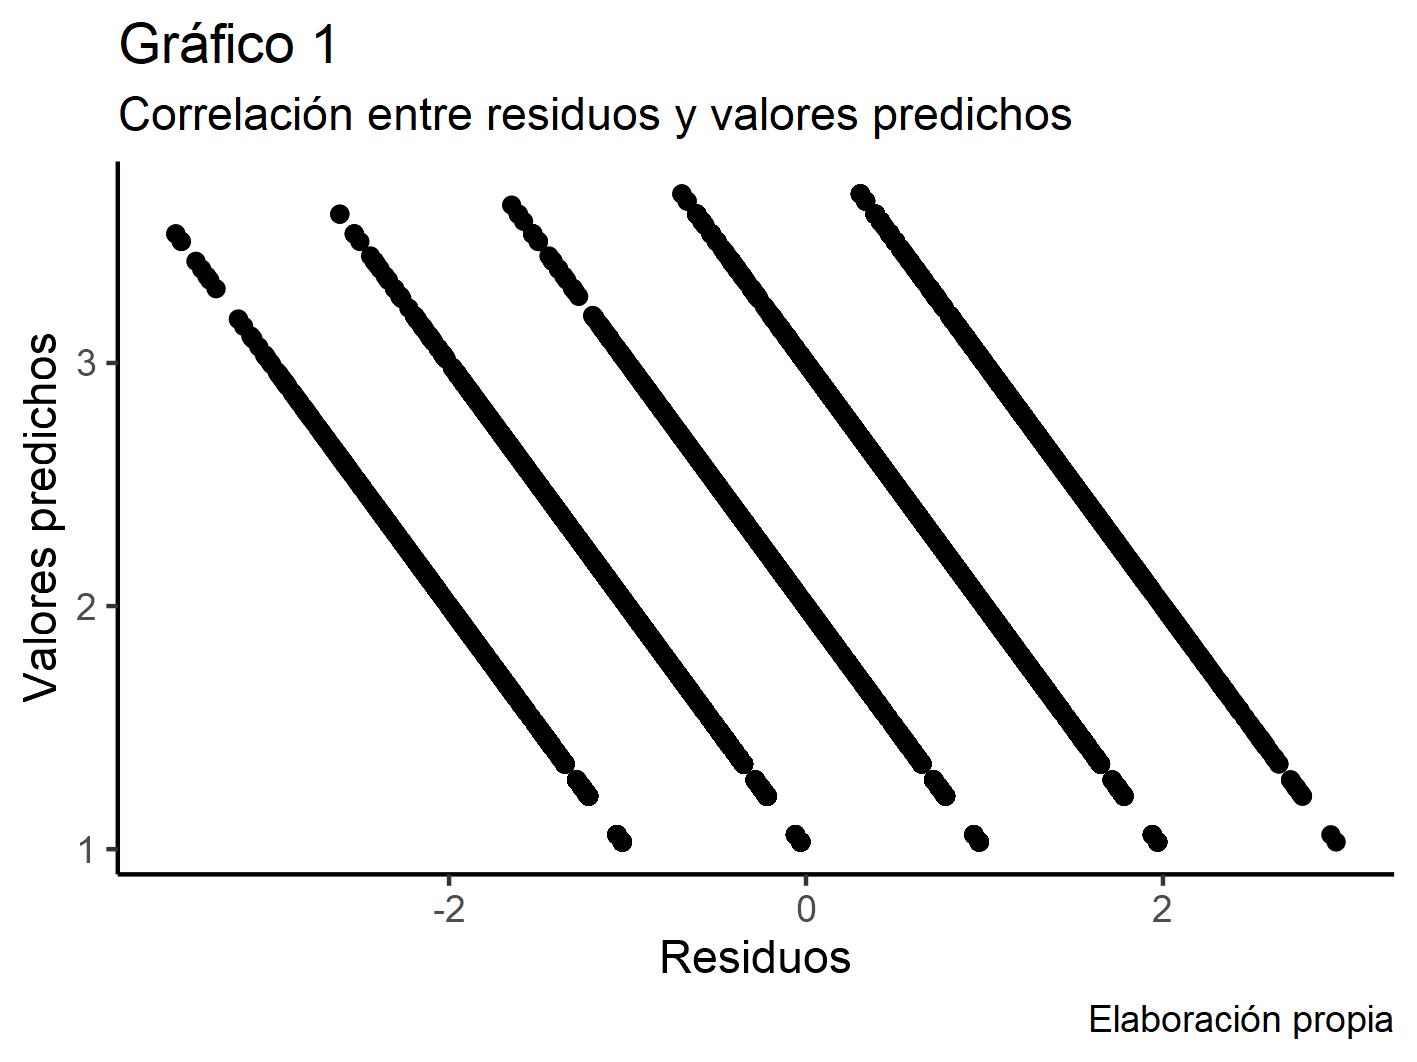
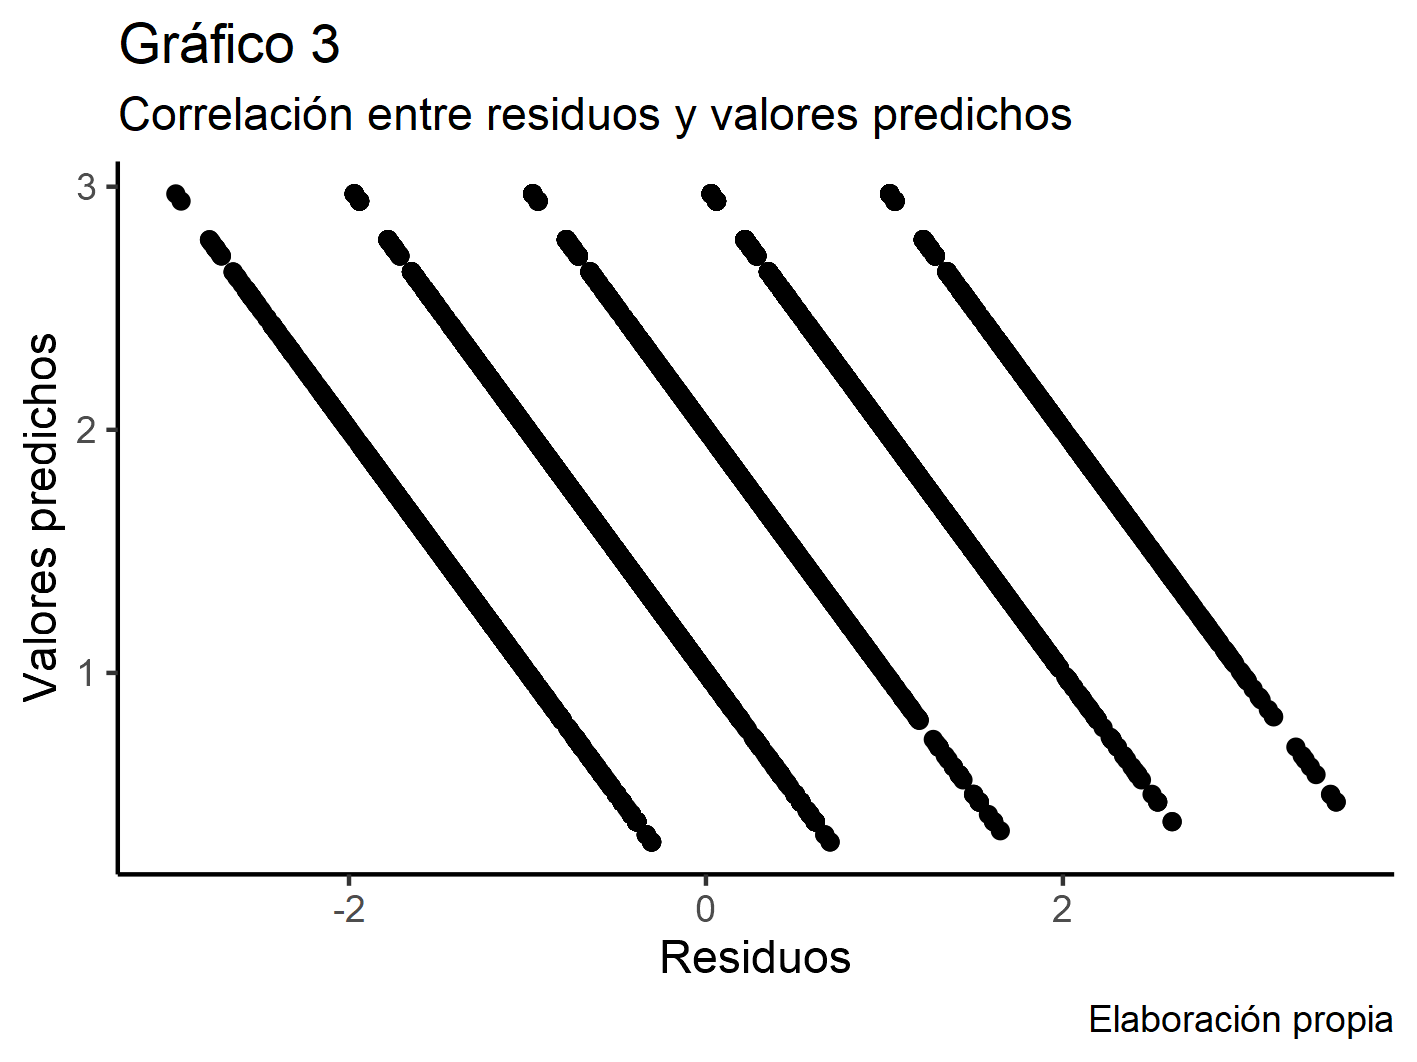
actualizacion graficos

diff --git a/output/fig/interceptos_mod12.html b/output/fig/interceptos_mod12.html
@@ -288,7 +288,7 @@ border: 0;
 </head>
 <body>
 <table class=" lightable-classic" style="font-family: Times New Roman; width: auto !important; margin-left: auto; margin-right: auto;border-bottom: 0;">
-<caption>Interceptos aleatorios estimados en el 
+<caption>Interceptos aleatorios y valores predichos estimados en el 
 Modelo 12</caption>
  <thead>
   <tr>
@@ -300,154 +300,154 @@ Modelo 12</caption>
  </thead>
 <tbody>
   <tr>
-   <td style="text-align:left;"> Finlandia </td>
-   <td style="text-align:right;"> 2.601 </td>
-   <td style="text-align:right;"> 0.998 </td>
-   <td style="text-align:right;"> 3.130 </td>
-  </tr>
-  <tr>
-   <td style="text-align:left;"> Islandia </td>
-   <td style="text-align:right;"> 2.188 </td>
-   <td style="text-align:right;"> 1.406 </td>
-   <td style="text-align:right;"> 2.933 </td>
-  </tr>
-  <tr>
-   <td style="text-align:left;"> Noruega </td>
-   <td style="text-align:right;"> 2.070 </td>
-   <td style="text-align:right;"> 1.396 </td>
-   <td style="text-align:right;"> 2.810 </td>
-  </tr>
-  <tr>
    <td style="text-align:left;"> Rusia, (la) Federación de </td>
    <td style="text-align:right;"> 2.883 </td>
    <td style="text-align:right;"> -0.166 </td>
-   <td style="text-align:right;"> 2.795 </td>
-  </tr>
-  <tr>
-   <td style="text-align:left;"> Suecia </td>
-   <td style="text-align:right;"> 2.214 </td>
-   <td style="text-align:right;"> 0.861 </td>
-   <td style="text-align:right;"> 2.670 </td>
-  </tr>
-  <tr>
-   <td style="text-align:left;"> Dinamarca </td>
-   <td style="text-align:right;"> 2.192 </td>
-   <td style="text-align:right;"> 0.808 </td>
-   <td style="text-align:right;"> 2.620 </td>
-  </tr>
-  <tr>
-   <td style="text-align:left;"> Eslovenia </td>
-   <td style="text-align:right;"> 2.344 </td>
-   <td style="text-align:right;"> 0.162 </td>
-   <td style="text-align:right;"> 2.430 </td>
-  </tr>
-  <tr>
-   <td style="text-align:left;"> Bélgica </td>
-   <td style="text-align:right;"> 2.141 </td>
-   <td style="text-align:right;"> 0.429 </td>
-   <td style="text-align:right;"> 2.368 </td>
-  </tr>
-  <tr>
-   <td style="text-align:left;"> Lituania </td>
-   <td style="text-align:right;"> 2.504 </td>
-   <td style="text-align:right;"> -0.276 </td>
-   <td style="text-align:right;"> 2.358 </td>
-  </tr>
-  <tr>
-   <td style="text-align:left;"> Sudáfrica </td>
-   <td style="text-align:right;"> 2.537 </td>
-   <td style="text-align:right;"> -0.445 </td>
-   <td style="text-align:right;"> 2.301 </td>
-  </tr>
-  <tr>
-   <td style="text-align:left;"> Austria </td>
-   <td style="text-align:right;"> 2.212 </td>
-   <td style="text-align:right;"> 0.118 </td>
-   <td style="text-align:right;"> 2.275 </td>
-  </tr>
-  <tr>
-   <td style="text-align:left;"> Alemania </td>
-   <td style="text-align:right;"> 2.189 </td>
-   <td style="text-align:right;"> 0.153 </td>
-   <td style="text-align:right;"> 2.270 </td>
-  </tr>
-  <tr>
-   <td style="text-align:left;"> Eslovaquia </td>
-   <td style="text-align:right;"> 2.348 </td>
-   <td style="text-align:right;"> -0.212 </td>
-   <td style="text-align:right;"> 2.236 </td>
-  </tr>
-  <tr>
-   <td style="text-align:left;"> Suiza </td>
-   <td style="text-align:right;"> 2.022 </td>
-   <td style="text-align:right;"> 0.312 </td>
-   <td style="text-align:right;"> 2.187 </td>
-  </tr>
-  <tr>
-   <td style="text-align:left;"> Letonia </td>
-   <td style="text-align:right;"> 2.341 </td>
-   <td style="text-align:right;"> -0.326 </td>
-   <td style="text-align:right;"> 2.168 </td>
-  </tr>
-  <tr>
-   <td style="text-align:left;"> Chequia </td>
-   <td style="text-align:right;"> 2.367 </td>
-   <td style="text-align:right;"> -0.398 </td>
-   <td style="text-align:right;"> 2.156 </td>
+   <td style="text-align:right;"> 2.971 </td>
   </tr>
   <tr>
    <td style="text-align:left;"> Hungría </td>
    <td style="text-align:right;"> 2.448 </td>
    <td style="text-align:right;"> -0.636 </td>
-   <td style="text-align:right;"> 2.111 </td>
+   <td style="text-align:right;"> 2.785 </td>
   </tr>
   <tr>
-   <td style="text-align:left;"> Polonia </td>
-   <td style="text-align:right;"> 2.331 </td>
-   <td style="text-align:right;"> -0.457 </td>
-   <td style="text-align:right;"> 2.089 </td>
-  </tr>
-  <tr>
-   <td style="text-align:left;"> Estonia </td>
-   <td style="text-align:right;"> 2.296 </td>
-   <td style="text-align:right;"> -0.634 </td>
-   <td style="text-align:right;"> 1.960 </td>
-  </tr>
-  <tr>
-   <td style="text-align:left;"> Estados Unidos de América (los) </td>
-   <td style="text-align:right;"> 1.982 </td>
-   <td style="text-align:right;"> -0.165 </td>
-   <td style="text-align:right;"> 1.895 </td>
-  </tr>
-  <tr>
-   <td style="text-align:left;"> Francia </td>
-   <td style="text-align:right;"> 1.934 </td>
-   <td style="text-align:right;"> -0.241 </td>
-   <td style="text-align:right;"> 1.806 </td>
+   <td style="text-align:left;"> Sudáfrica </td>
+   <td style="text-align:right;"> 2.537 </td>
+   <td style="text-align:right;"> -0.445 </td>
+   <td style="text-align:right;"> 2.773 </td>
   </tr>
   <tr>
    <td style="text-align:left;"> México </td>
    <td style="text-align:right;"> 2.196 </td>
    <td style="text-align:right;"> -0.864 </td>
-   <td style="text-align:right;"> 1.738 </td>
+   <td style="text-align:right;"> 2.654 </td>
   </tr>
   <tr>
-   <td style="text-align:left;"> España </td>
-   <td style="text-align:right;"> 1.916 </td>
-   <td style="text-align:right;"> -0.356 </td>
-   <td style="text-align:right;"> 1.727 </td>
+   <td style="text-align:left;"> Lituania </td>
+   <td style="text-align:right;"> 2.504 </td>
+   <td style="text-align:right;"> -0.276 </td>
+   <td style="text-align:right;"> 2.650 </td>
+  </tr>
+  <tr>
+   <td style="text-align:left;"> Estonia </td>
+   <td style="text-align:right;"> 2.296 </td>
+   <td style="text-align:right;"> -0.634 </td>
+   <td style="text-align:right;"> 2.632 </td>
+  </tr>
+  <tr>
+   <td style="text-align:left;"> Chequia </td>
+   <td style="text-align:right;"> 2.367 </td>
+   <td style="text-align:right;"> -0.398 </td>
+   <td style="text-align:right;"> 2.578 </td>
+  </tr>
+  <tr>
+   <td style="text-align:left;"> Polonia </td>
+   <td style="text-align:right;"> 2.331 </td>
+   <td style="text-align:right;"> -0.457 </td>
+   <td style="text-align:right;"> 2.573 </td>
+  </tr>
+  <tr>
+   <td style="text-align:left;"> Letonia </td>
+   <td style="text-align:right;"> 2.341 </td>
+   <td style="text-align:right;"> -0.326 </td>
+   <td style="text-align:right;"> 2.514 </td>
+  </tr>
+  <tr>
+   <td style="text-align:left;"> Eslovaquia </td>
+   <td style="text-align:right;"> 2.348 </td>
+   <td style="text-align:right;"> -0.212 </td>
+   <td style="text-align:right;"> 2.460 </td>
   </tr>
   <tr>
    <td style="text-align:left;"> Chile </td>
    <td style="text-align:right;"> 1.950 </td>
    <td style="text-align:right;"> -0.706 </td>
-   <td style="text-align:right;"> 1.576 </td>
+   <td style="text-align:right;"> 2.324 </td>
+  </tr>
+  <tr>
+   <td style="text-align:left;"> Eslovenia </td>
+   <td style="text-align:right;"> 2.344 </td>
+   <td style="text-align:right;"> 0.162 </td>
+   <td style="text-align:right;"> 2.258 </td>
+  </tr>
+  <tr>
+   <td style="text-align:left;"> Austria </td>
+   <td style="text-align:right;"> 2.212 </td>
+   <td style="text-align:right;"> 0.118 </td>
+   <td style="text-align:right;"> 2.149 </td>
+  </tr>
+  <tr>
+   <td style="text-align:left;"> Alemania </td>
+   <td style="text-align:right;"> 2.189 </td>
+   <td style="text-align:right;"> 0.153 </td>
+   <td style="text-align:right;"> 2.108 </td>
+  </tr>
+  <tr>
+   <td style="text-align:left;"> España </td>
+   <td style="text-align:right;"> 1.916 </td>
+   <td style="text-align:right;"> -0.356 </td>
+   <td style="text-align:right;"> 2.105 </td>
+  </tr>
+  <tr>
+   <td style="text-align:left;"> Finlandia </td>
+   <td style="text-align:right;"> 2.601 </td>
+   <td style="text-align:right;"> 0.998 </td>
+   <td style="text-align:right;"> 2.072 </td>
+  </tr>
+  <tr>
+   <td style="text-align:left;"> Estados Unidos de América (los) </td>
+   <td style="text-align:right;"> 1.982 </td>
+   <td style="text-align:right;"> -0.165 </td>
+   <td style="text-align:right;"> 2.069 </td>
+  </tr>
+  <tr>
+   <td style="text-align:left;"> Francia </td>
+   <td style="text-align:right;"> 1.934 </td>
+   <td style="text-align:right;"> -0.241 </td>
+   <td style="text-align:right;"> 2.062 </td>
+  </tr>
+  <tr>
+   <td style="text-align:left;"> Bélgica </td>
+   <td style="text-align:right;"> 2.141 </td>
+   <td style="text-align:right;"> 0.429 </td>
+   <td style="text-align:right;"> 1.914 </td>
+  </tr>
+  <tr>
+   <td style="text-align:left;"> Suiza </td>
+   <td style="text-align:right;"> 2.022 </td>
+   <td style="text-align:right;"> 0.312 </td>
+   <td style="text-align:right;"> 1.857 </td>
   </tr>
   <tr>
    <td style="text-align:left;"> Australia </td>
    <td style="text-align:right;"> 1.591 </td>
    <td style="text-align:right;"> -0.411 </td>
-   <td style="text-align:right;"> 1.373 </td>
+   <td style="text-align:right;"> 1.809 </td>
+  </tr>
+  <tr>
+   <td style="text-align:left;"> Dinamarca </td>
+   <td style="text-align:right;"> 2.192 </td>
+   <td style="text-align:right;"> 0.808 </td>
+   <td style="text-align:right;"> 1.764 </td>
+  </tr>
+  <tr>
+   <td style="text-align:left;"> Suecia </td>
+   <td style="text-align:right;"> 2.214 </td>
+   <td style="text-align:right;"> 0.861 </td>
+   <td style="text-align:right;"> 1.758 </td>
+  </tr>
+  <tr>
+   <td style="text-align:left;"> Islandia </td>
+   <td style="text-align:right;"> 2.188 </td>
+   <td style="text-align:right;"> 1.406 </td>
+   <td style="text-align:right;"> 1.443 </td>
+  </tr>
+  <tr>
+   <td style="text-align:left;"> Noruega </td>
+   <td style="text-align:right;"> 2.070 </td>
+   <td style="text-align:right;"> 1.396 </td>
+   <td style="text-align:right;"> 1.330 </td>
   </tr>
 </tbody>
 <tfoot>
